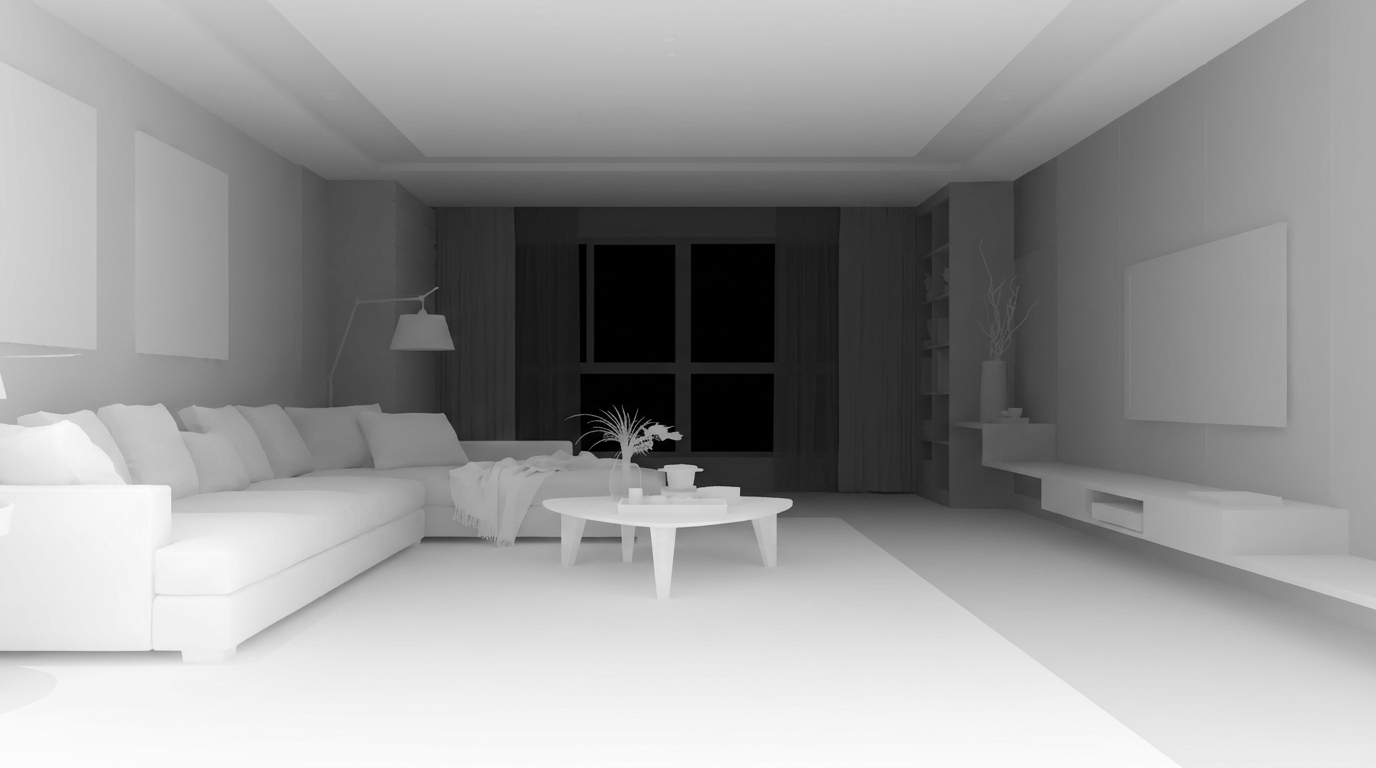
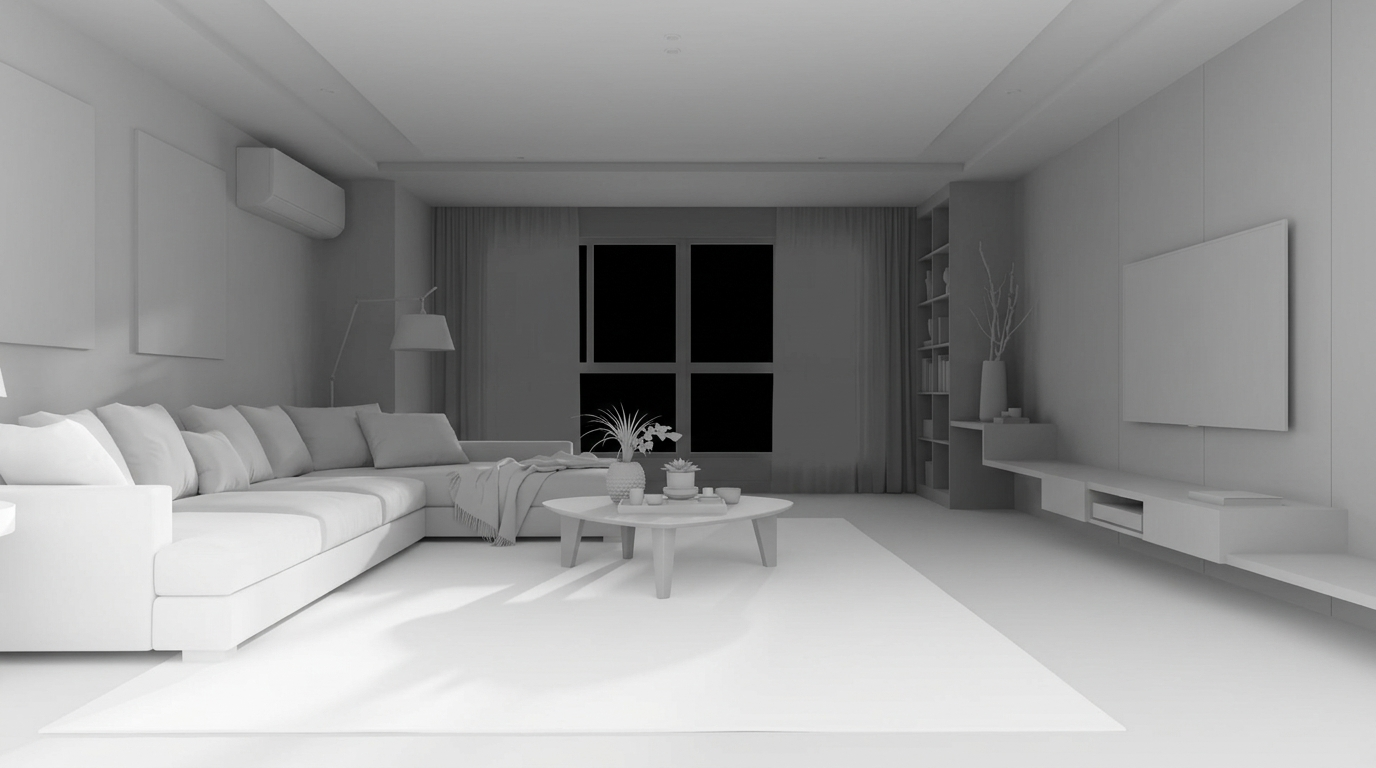
feat: add wall-mounted split air conditioner to room and depth map with cooling breeze glow

diff --git a/components/room/DepthRoom.tsx b/components/room/DepthRoom.tsx
@@ -55,8 +55,10 @@ const frag = /* glsl */ `
 
     // Iluminação noturna aconchegante: spots de teto e abajur
     float warmPool = smoothstep(0.28, 0.95, depth) * 0.52;
-    // Fluxo do ar condicionado: brisa fresca sutil descendo do topo
-    float coolFlow = smoothstep(0.15, 0.85, 1.0 - vUv.y) * 0.25;
+    // Fluxo do ar condicionado: brisa fresca emanando do split no alto à esquerda (UV ~ 0.21, 0.73)
+    float acDist = distance(uv, vec2(0.21, 0.73));
+    float acBreeze = smoothstep(0.48, 0.04, acDist) * 0.32;
+    float coolFlow = smoothstep(0.15, 0.85, 1.0 - vUv.y) * 0.16 + acBreeze;
     night += uWarm * warmPool + uCool * coolFlow;
 
     vec3 color = mix(base.rgb, night, uNight);
